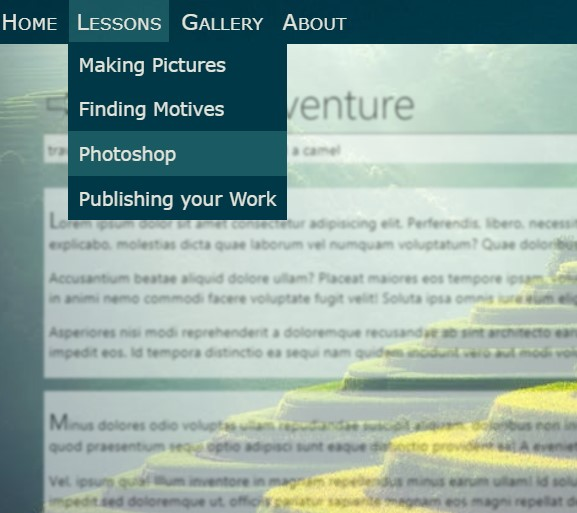
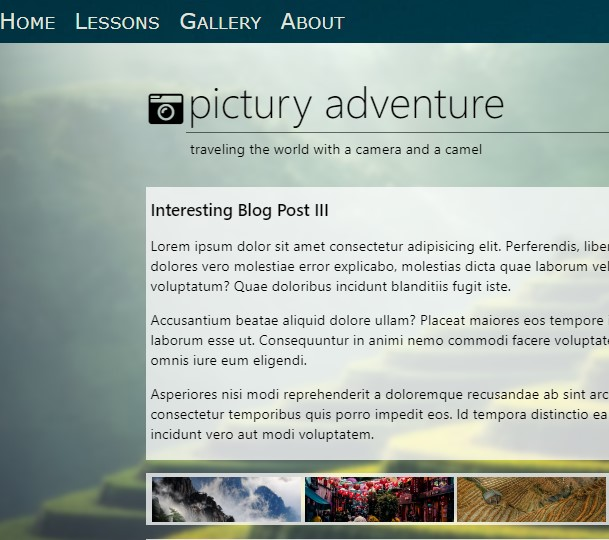
add gallery to ddm page

diff --git a/w5/drop-down/index.html b/w5/drop-down/index.html
@@ -50,6 +50,8 @@
         <p>traveling the world with a camera and a camel</p>
 
         <div class="text">
+            <div class="date">23-4-2019</div>
+            <h3>Interesting Blog Post III </h3> 
             <p>Lorem ipsum dolor sit amet consectetur adipisicing elit. Perferendis, libero, necessitatibus eos
                 dolores vero molestiae error explicabo, molestias dicta quae laborum vel numquam voluptatum? Quae
                 doloribus incidunt blanditiis fugit iste.</p>
@@ -60,7 +62,17 @@
                 temporibus quis porro impedit eos. Id tempora distinctio ea sequi nam quidem incidunt vero aut modi
                 voluptatem.</p>
         </div>
+
+        <div class="imgContainer">
+            <div class="img" id="img1"></div>
+            <div class="img" id="img2"></div>
+            <div class="img" id="img3"></div>
+            <div class="img" id="img4"></div>
+        </div>
+
         <div class="text">
+            <div class="date">19-4-2019</div>
+            <h3>Had some fun in Germany!</h3>
             <p>Minus dolores odio voluptas ullam repudiandae suscipit aliquam, doloribus non inventore repellendus
                 dolor explicabo eos quod praesentium sequi optio adipisci sunt eaque distinctio provident ex! A
                 eveniet eum quisquam impedit!</p>
@@ -77,6 +89,34 @@
                 facere sunt rerum, nostrum ullam rem officiis! Error quasi neque asperiores assumenda facere
                 quibusdam autem accusantium!</p>
         </div>
+
+        <div class="imgContainer">
+                <div class="img" id="img5"></div>
+                <div class="img" id="img6"></div>
+                <div class="img" id="img7"></div>
+                <div class="img" id="img8"></div>
+                <div class="img" id="img9"></div>
+                <div class="img" id="img10"></div>
+            </div>
+            <div class="text">
+                    <div class="date">15-4-2019</div>
+                    <h3>Here is some more Text! :)</h3>
+                    <p>Minus dolores odio voluptas ullam repudiandae suscipit aliquam, doloribus non inventore repellendus
+                        dolor explicabo eos quod praesentium sequi optio adipisci sunt eaque distinctio provident ex! A
+                        eveniet eum quisquam impedit!</p>
+                    <p>Vel, ipsum quia! Illum inventore in magnam repellendus minus earum ullam! Id soluta placeat in ipsa
+                        necessitatibus atque impedit sed doloremque ut, officiis pariatur sapiente magnam eos magni repellat
+                        deserunt.</p>
+                    <p>Repellat accusamus accusantium perspiciatis! At dolor eaque atque illum ea, quo voluptates ducimus
+                        quos quod repellat amet quibusdam. Odio quisquam assumenda animi nihil doloremque quam cum vel?
+                        Architecto, mollitia in!</p>
+                    <p>Consequuntur natus veritatis quas. Repudiandae impedit dolore repellendus omnis eos eius error sed,
+                        minus dolorem ab. Maiores debitis ipsum voluptates at, saepe eius optio doloremque, perferendis ea
+                        amet nisi magni?</p>
+                    <p>Eveniet, sed adipisci porro dignissimos enim culpa minus soluta deleniti repellat, ad impedit sequi
+                        facere sunt rerum, nostrum ullam rem officiis! Error quasi neque asperiores assumenda facere
+                        quibusdam autem accusantium!</p>
+                </div>
     </div>
 </body>
 

diff --git a/w5/drop-down/style.css b/w5/drop-down/style.css
@@ -151,7 +151,7 @@ h1 {
     border-top: 1px solid rgba(0, 0, 0, 0.548);
 }
 
-.text {
+.text, .imgContainer {
     margin: 0 56px 15px;
     padding: 2px 5px;
     background-color: rgba(255, 255, 255, 0.746);
@@ -161,6 +161,18 @@ h1 {
     font-size: 1.5em;
 }
 
+.date {
+    float: right;
+    padding-right: 20px;
+    border-bottom: 1px dashed black;
+}
+
+.text h3 {
+    margin: 10px 0;
+    font-weight: 450;
+}
+
+
 .nav:hover ~ .content {
     filter: blur(2px);
     -webkit-filter: blur(2px);
@@ -169,4 +181,70 @@ h1 {
     -ms-filter: blur(2px);
     opacity: 0.7;
     transition: 1s;
+}
+
+.imgContainer {
+    display: flex;
+    flex-direction: row;
+    justify-content: space-around;
+}
+
+.imgContainer:hover .img {
+    height: 200px;
+}
+
+.imgContainer>.img {
+    width: 100%;
+    height: 50px;
+}
+
+.imgContainer>.img:hover {
+    width: 300%;
+}
+
+.img {
+    background-size: cover;
+    background-position: center center;
+    transition: 1s;
+    margin: 2px;
+}
+
+#img1 {
+    background-image: url(img/china1.jpeg);
+}
+
+#img2 {
+    background-image: url(img/china2.jpeg);
+}
+
+#img3 {
+    background-image: url(img/china3.jpeg);
+}
+
+#img4 {
+    background-image: url(img/china4.jpeg);
+}
+
+#img5 {
+    background-image: url(img/ger1.jpg);
+}
+
+#img6 {
+    background-image: url(img/ger2.jpg);
+}
+
+#img7 {
+    background-image: url(img/ger3.jpg);
+}
+
+#img8 {
+    background-image: url(img/ger4.jpg);
+}
+
+#img9 {
+    background-image: url(img/ger5.jpg);
+}
+
+#img10 {
+    background-image: url(img/ger6.jpg);
 }

diff --git a/index.html b/index.html
@@ -19,6 +19,17 @@
             <h1>Big & Medium Projects</h1>
         </div>
 
+        <!-- CSS Drop Down Menu -->
+        <div class="box">
+            <a href="w5/drop-down/index.html" target="_blank">
+                <h3>CSS Drop Down Menu</h3>
+                <p>Drop down menu with vanilla css, blur on background</p>
+                <div class="box">
+                    <div class="img" id="w5-dropDown"></div>
+                </div>
+            </a>
+        </div>
+
         <div class="box">
             <a href="w4/css-animation-website/index.html" target="_blank">
                 <h3>Animation Website</h3>
@@ -94,17 +105,6 @@
                 <p>Hover, tooltips, ::before & ::after</p>
                 <div class="box">
                     <div class="img" id="w5-pseudo"></div>
-                </div>
-            </a>
-        </div>
-
-        <!-- CSS Drop Down Menu -->
-        <div class="box">
-            <a href="w5/drop-down/index.html" target="_blank">
-                <h3>CSS Drop Down Menu</h3>
-                <p>Drop down menu with vanilla css, blur on background</p>
-                <div class="box">
-                    <div class="img" id="w5-dropDown"></div>
                 </div>
             </a>
         </div>
@@ -293,7 +293,7 @@
                 </div>
             </a>
         </div>
-        
+
     </div>
 </body>
 
